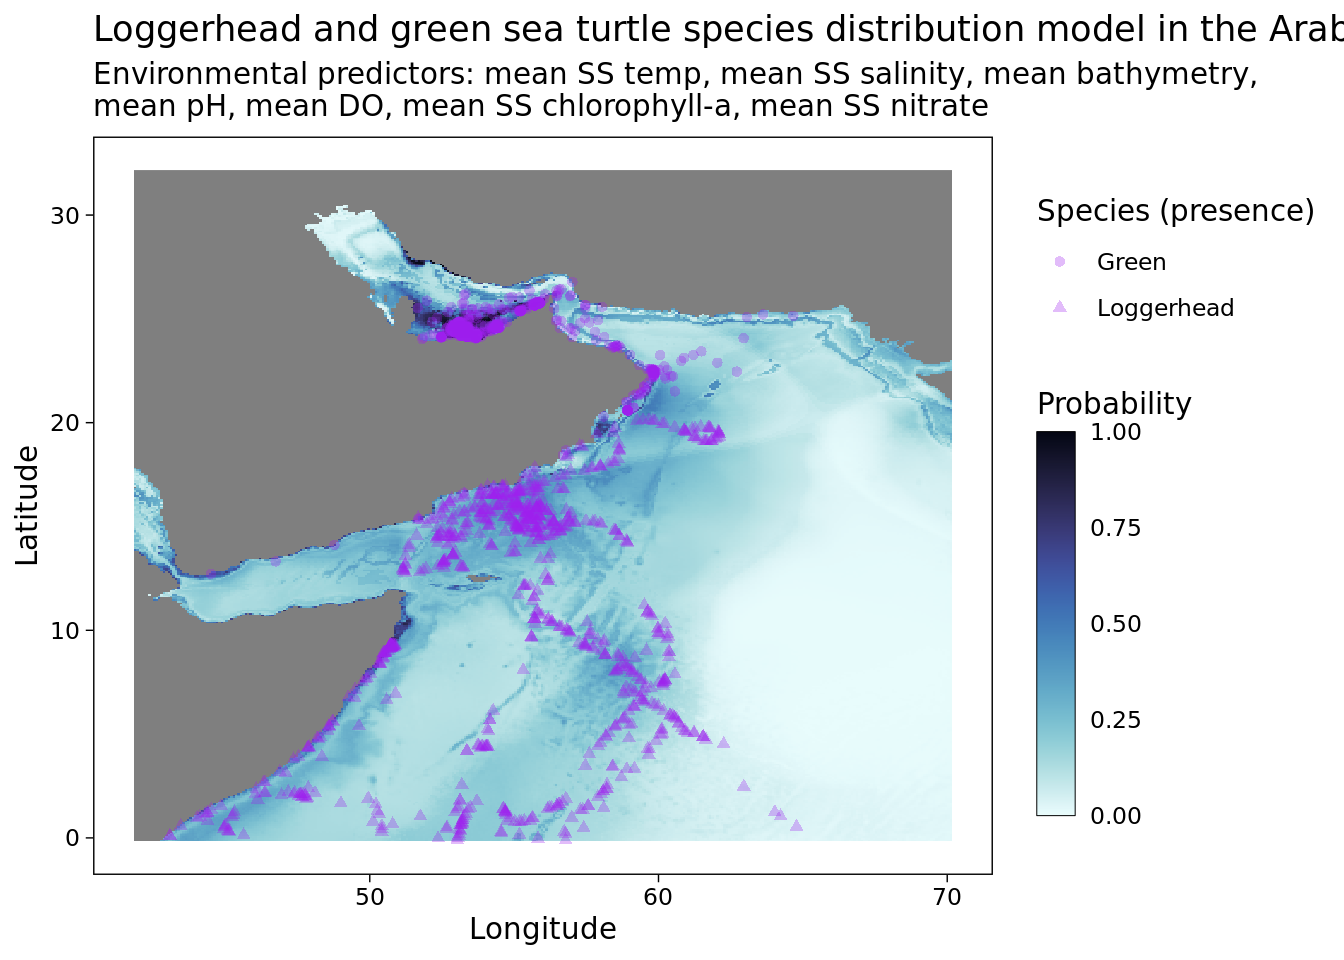
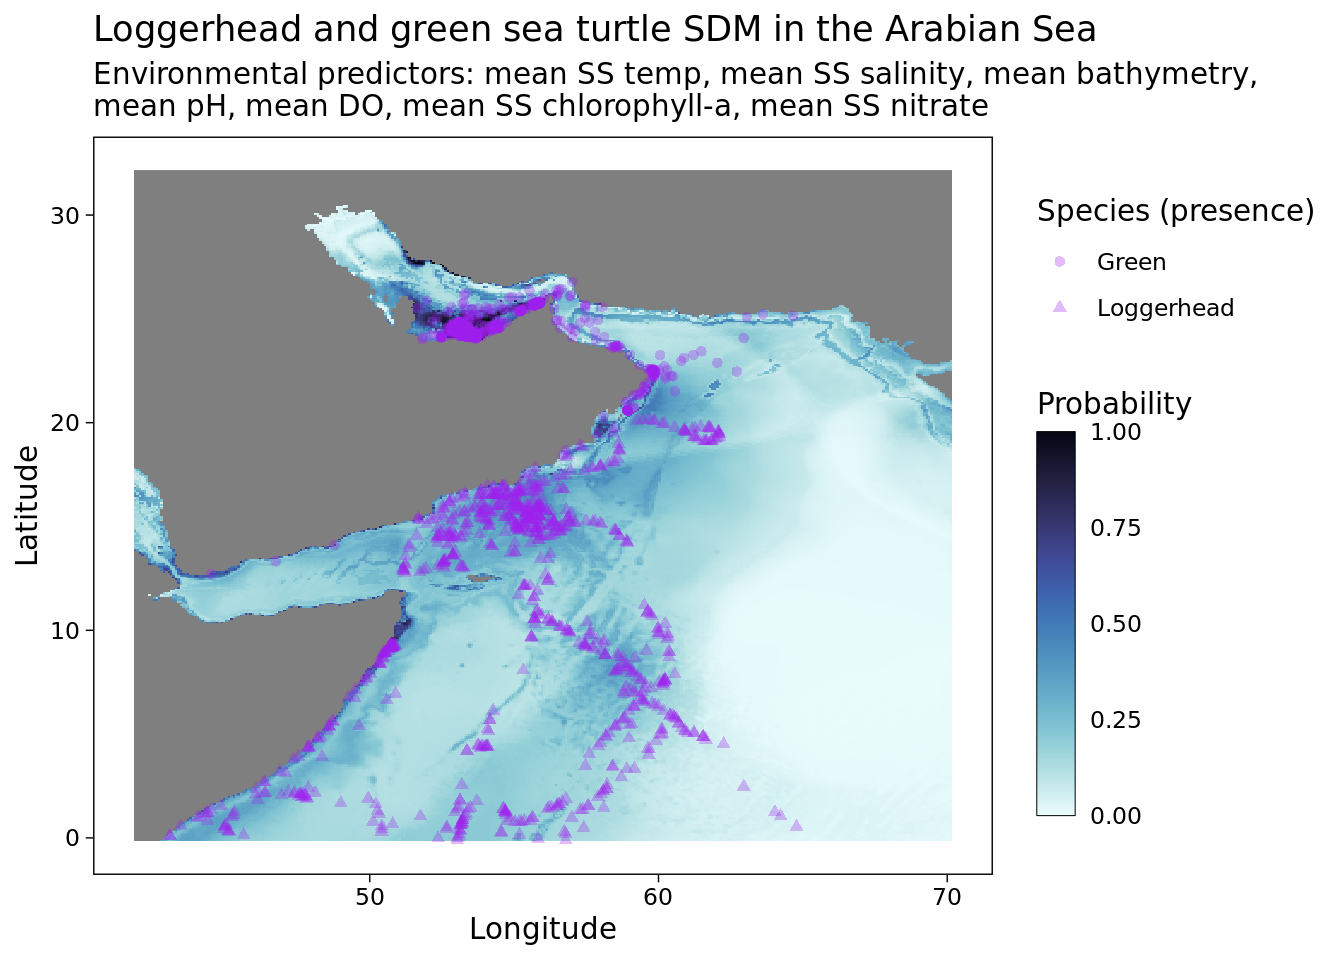
clean up plot title

Changed region(s): [[0.5, 0.0, 1.0, 0.0625]]

diff --git a/docs/tutorial/Mackenzie_SDM_with_maxent.html b/docs/tutorial/Mackenzie_SDM_with_maxent.html
@@ -610,7 +610,7 @@ y  695 1082     90 -0.0833333 +proj=longlat +datum=WGS8...    NA   NULL [y]</cod
 <span id="cb45-7"><a href="#cb45-7" aria-hidden="true" tabindex="-1"></a>  <span class="fu">theme</span>(<span class="at">panel.background =</span> <span class="fu">element_blank</span>(),</span>
 <span id="cb45-8"><a href="#cb45-8" aria-hidden="true" tabindex="-1"></a>        <span class="at">panel.grid.major =</span> <span class="fu">element_blank</span>(),</span>
 <span id="cb45-9"><a href="#cb45-9" aria-hidden="true" tabindex="-1"></a>        <span class="at">panel.grid.minor =</span> <span class="fu">element_blank</span>()) <span class="sc">+</span></span>
-<span id="cb45-10"><a href="#cb45-10" aria-hidden="true" tabindex="-1"></a>  <span class="fu">labs</span>(<span class="at">title =</span> <span class="st">"Loggerhead and green sea turtle species distribution model in the Arabian Sea"</span>,</span>
+<span id="cb45-10"><a href="#cb45-10" aria-hidden="true" tabindex="-1"></a>  <span class="fu">labs</span>(<span class="at">title =</span> <span class="st">"Loggerhead and green sea turtle SDM in the Arabian Sea"</span>,</span>
 <span id="cb45-11"><a href="#cb45-11" aria-hidden="true" tabindex="-1"></a>       <span class="at">x =</span> <span class="st">"Longitude"</span>,</span>
 <span id="cb45-12"><a href="#cb45-12" aria-hidden="true" tabindex="-1"></a>       <span class="at">y =</span> <span class="st">"Latitude"</span>,</span>
 <span id="cb45-13"><a href="#cb45-13" aria-hidden="true" tabindex="-1"></a>       <span class="at">fill =</span> <span class="st">"Probability"</span>,</span>
@@ -634,7 +634,7 @@ y  695 1082     90 -0.0833333 +proj=longlat +datum=WGS8...    NA   NULL [y]</cod
 <span id="cb47-7"><a href="#cb47-7" aria-hidden="true" tabindex="-1"></a>  <span class="fu">theme</span>(<span class="at">panel.background =</span> <span class="fu">element_blank</span>(),</span>
 <span id="cb47-8"><a href="#cb47-8" aria-hidden="true" tabindex="-1"></a>        <span class="at">panel.grid.major =</span> <span class="fu">element_blank</span>(),</span>
 <span id="cb47-9"><a href="#cb47-9" aria-hidden="true" tabindex="-1"></a>        <span class="at">panel.grid.minor =</span> <span class="fu">element_blank</span>()) <span class="sc">+</span></span>
-<span id="cb47-10"><a href="#cb47-10" aria-hidden="true" tabindex="-1"></a>  <span class="fu">labs</span>(<span class="at">title =</span> <span class="st">"Loggerhead and green sea turtle species distribution model in the Arabian Sea"</span>,</span>
+<span id="cb47-10"><a href="#cb47-10" aria-hidden="true" tabindex="-1"></a>  <span class="fu">labs</span>(<span class="at">title =</span> <span class="st">"Loggerhead and green sea turtle SDM in the Arabian Sea"</span>,</span>
 <span id="cb47-11"><a href="#cb47-11" aria-hidden="true" tabindex="-1"></a>       <span class="at">x =</span> <span class="st">"Longitude"</span>,</span>
 <span id="cb47-12"><a href="#cb47-12" aria-hidden="true" tabindex="-1"></a>       <span class="at">y =</span> <span class="st">"Latitude"</span>,</span>
 <span id="cb47-13"><a href="#cb47-13" aria-hidden="true" tabindex="-1"></a>       <span class="at">fill =</span> <span class="st">"Probability"</span>,</span>
@@ -658,7 +658,7 @@ y  695 1082     90 -0.0833333 +proj=longlat +datum=WGS8...    NA   NULL [y]</cod
 <span id="cb49-7"><a href="#cb49-7" aria-hidden="true" tabindex="-1"></a>  <span class="fu">theme</span>(<span class="at">panel.background =</span> <span class="fu">element_blank</span>(),</span>
 <span id="cb49-8"><a href="#cb49-8" aria-hidden="true" tabindex="-1"></a>        <span class="at">panel.grid.major =</span> <span class="fu">element_blank</span>(),</span>
 <span id="cb49-9"><a href="#cb49-9" aria-hidden="true" tabindex="-1"></a>        <span class="at">panel.grid.minor =</span> <span class="fu">element_blank</span>()) <span class="sc">+</span></span>
-<span id="cb49-10"><a href="#cb49-10" aria-hidden="true" tabindex="-1"></a>  <span class="fu">labs</span>(<span class="at">title =</span> <span class="st">"Loggerhead and green sea turtle species distribution model in the Arabian Sea"</span>,</span>
+<span id="cb49-10"><a href="#cb49-10" aria-hidden="true" tabindex="-1"></a>  <span class="fu">labs</span>(<span class="at">title =</span> <span class="st">"Loggerhead and green sea turtle SDM in the Arabian Sea"</span>,</span>
 <span id="cb49-11"><a href="#cb49-11" aria-hidden="true" tabindex="-1"></a>       <span class="at">x =</span> <span class="st">"Longitude"</span>,</span>
 <span id="cb49-12"><a href="#cb49-12" aria-hidden="true" tabindex="-1"></a>       <span class="at">y =</span> <span class="st">"Latitude"</span>,</span>
 <span id="cb49-13"><a href="#cb49-13" aria-hidden="true" tabindex="-1"></a>       <span class="at">fill =</span> <span class="st">"Probability"</span>,</span>
